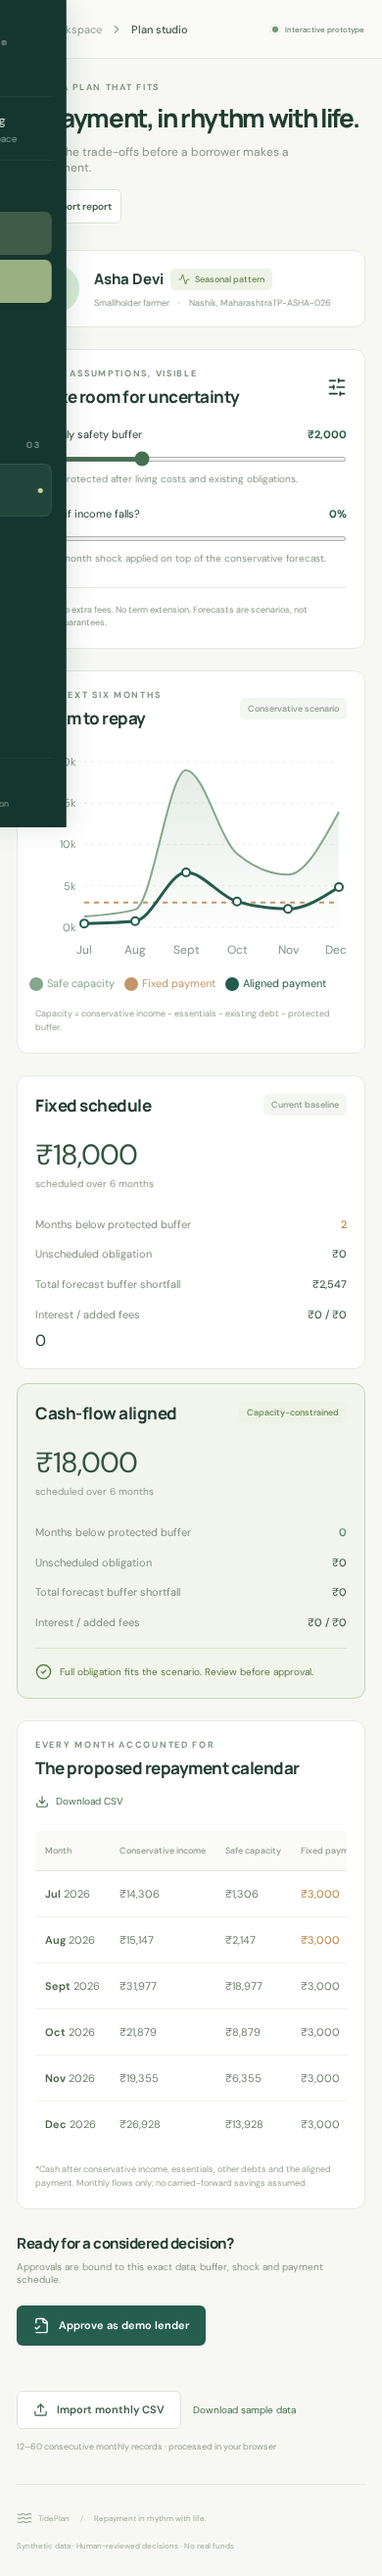
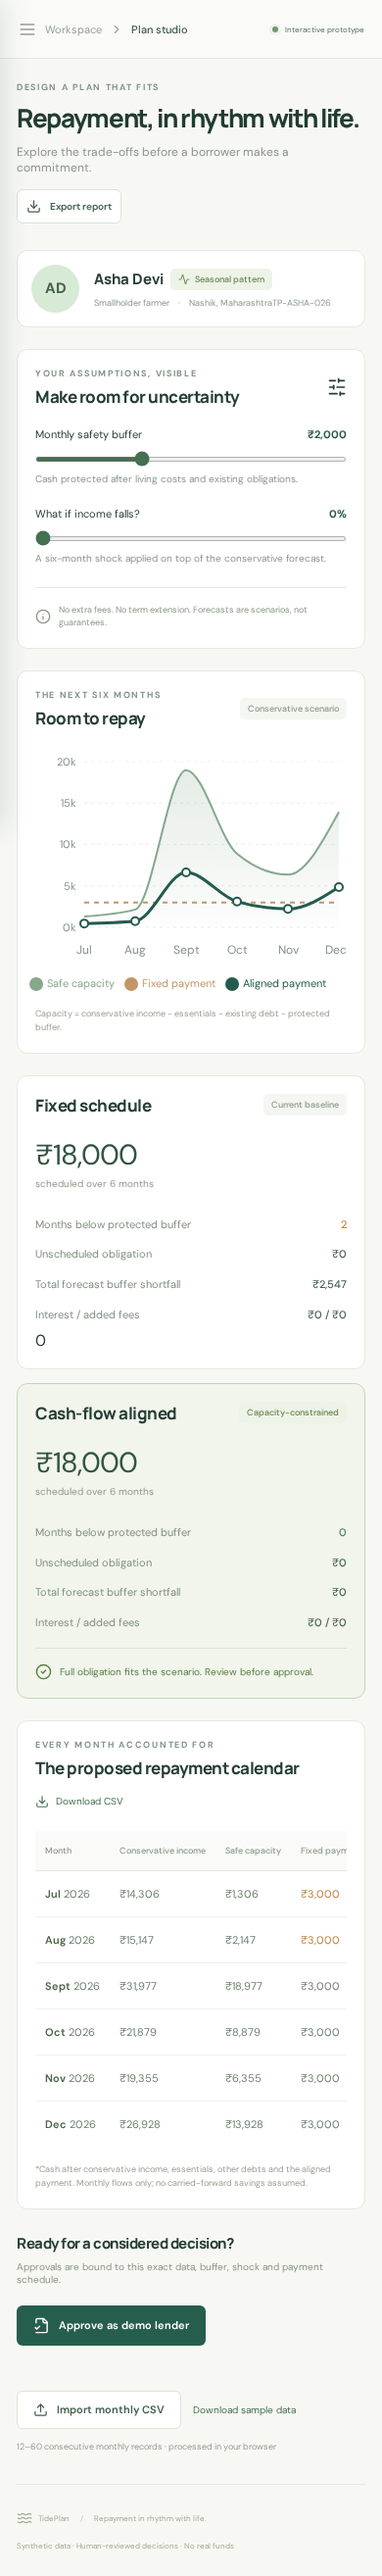
Save demo narration sources and updated screenshots; pause video production

Changed region(s): [[0.0, 0.0, 0.1846, 0.3432]]

diff --git a/scripts/generate-voice.py b/scripts/generate-voice.py
@@ -1,0 +1,12 @@
+"""Media generation: pip install edge-tts; python scripts/generate-voice.py"""
+import asyncio, json
+from pathlib import Path
+import edge_tts
+
+async def main():
+    scenes=json.loads(Path('scripts/demo-scenes.json').read_text())
+    Path('work/voice').mkdir(parents=True,exist_ok=True)
+    for i,scene in enumerate(scenes):
+        await edge_tts.Communicate(scene['text'],'en-IN-PrabhatNeural',rate='+2%').save(f'work/voice/{i:02d}.mp3')
+        print(f"Voice {i+1}/{len(scenes)}: {scene['id']}",flush=True)
+asyncio.run(main())

diff --git a/README.md b/README.md
@@ -7,7 +7,7 @@
 
 Cash-flow-aware microloan planning · Explicit borrower consent · Verifiable decision history
 
-[**Launch the interactive demo →**](https://preethesh16.github.io/Tideplan/) · [**Watch the narrated walkthrough →**](https://preethesh16.github.io/Tideplan/demo/) · [How it works](#the-decision-engine)
+[**Launch the interactive demo →**](https://preethesh16.github.io/Tideplan/) · [How it works](#the-decision-engine) · [Technology](#architecture--technology)
 
 Built by **Team Hardcoder** · Problem: **Dynamic Microloan Repayment & Cash-Flow Planning** · **SDG 8**
 
@@ -36,7 +36,7 @@ TidePlan puts that question at the centre of a lender–borrower conversation. I
 5. **Open Trust ledger.** Simulate a ₹1,000 reserve grant, verify the event hashes, and test a tampered copy. Nothing moves on a payment network.
 6. **Switch to Ravi Kumar.** A sustained year-on-year decline is flagged for intervention—not explained away as seasonality.
 
-[Watch the screen-recorded, narrated demo](https://preethesh16.github.io/Tideplan/demo/). The player uses ordinary HTML video rather than GitHub's unsupported MP4 file preview. [Download the MP4](https://preethesh16.github.io/Tideplan/demo/tideplan-demo.mp4).
+**Narrated recording: in progress, paused at the team's request.** The interactive demo is ready to explore. Recording and narration scripts are included under `scripts/`; the finished video is not published yet.
 
 ## One example, every rupee accounted for
 
